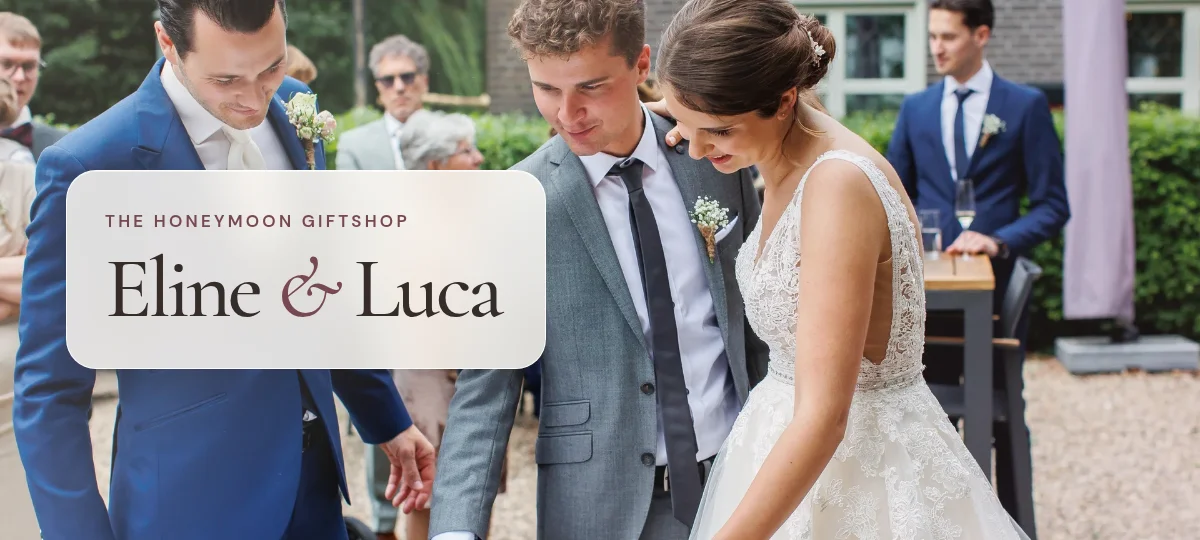
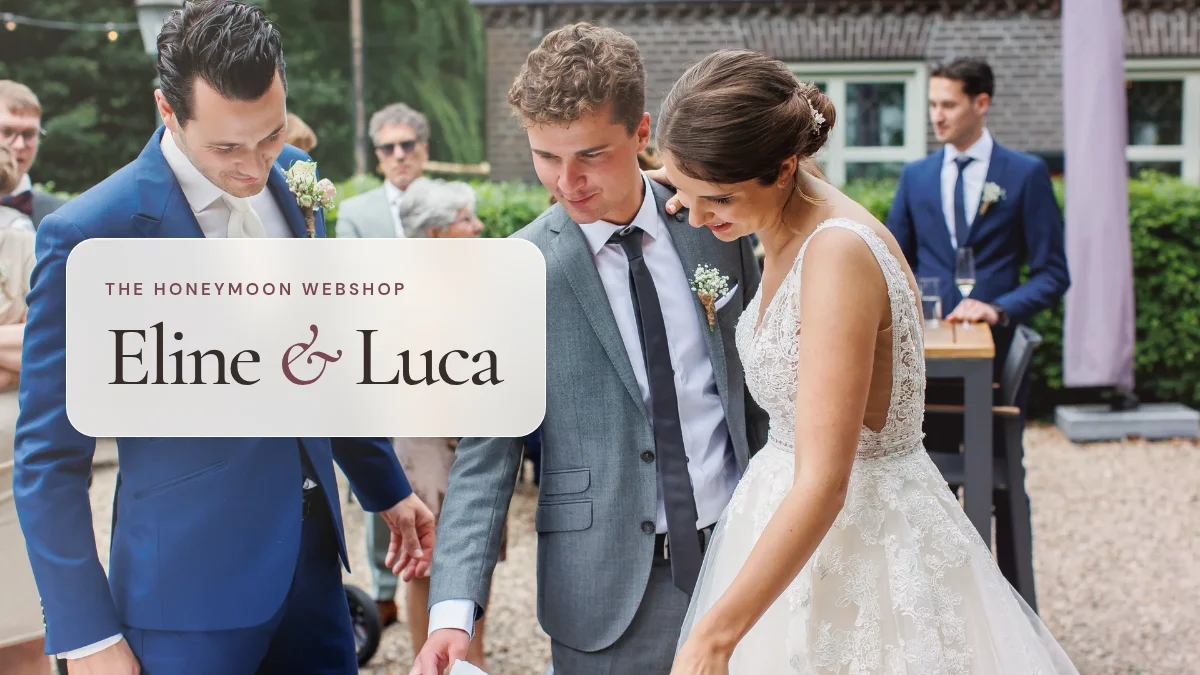
Restore the Honeymoon Webshop cover to the shared card size

diff --git a/index.html b/index.html
@@ -414,7 +414,6 @@ body.portfolio-home::before {
 .is-expanded > .preview-toggle .ui-icon { transform: rotate(180deg); }
 /* Keep the wide Pip artwork fully visible within the shared card frame. */
 #project-pip .article-wrapper img { object-fit: contain; background: #d6dafa; }
-#project-honeymoon .article-wrapper figure { min-height: 0; aspect-ratio: 20 / 9; }
 /* Retain the existing unavailable-project treatment. */
 .portfolio-card.portfolio-card--disabled {
   cursor: default; background: rgba(255,255,255,.66); border-color: rgba(210,220,240,.25);
@@ -984,7 +983,7 @@ A curious mind, a soft spot for good UX, and a healthy intolerance for unnecessa
           </article>
           <article class="portfolio-card" data-project="honeymoon" id="project-honeymoon" data-categories="Web Development">
             <div class="article-wrapper">
-              <figure><img src="assets/img/honeymoon-webshop-card.webp" alt="The Honeymoon Giftshop cover with Eline and Luca’s wedding photo" width="1200" height="540" loading="lazy" /></figure>
+              <figure><img src="assets/img/honeymoon-webshop-card.webp" alt="The Honeymoon Webshop cover with a wedding photograph and a frosted invitation panel" width="1200" height="675" loading="lazy" /></figure>
               <div class="article-body">
                 <h2>The Honeymoon Webshop</h2>
                 <p>One of my favorite personal projects is creating "The Honeymoon Webshop" for newlyweds. I built a custom website that lets wedding guests buy and customize honeymoon gifts like activities and hotel stays. Releasing a first version for my own sister's wedding, all the thoughtful presents and messages purchased on the website were beautifully displayed on a bulletin-style collage frame.</p>
